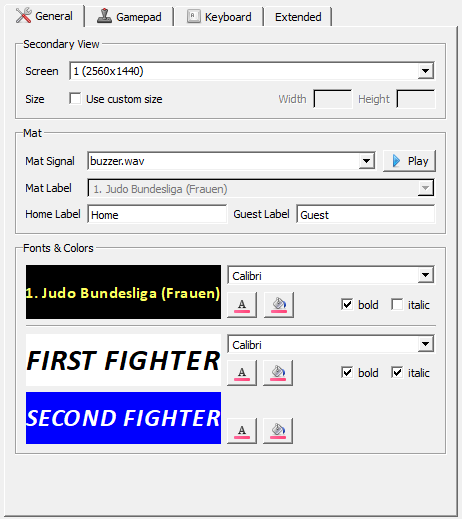
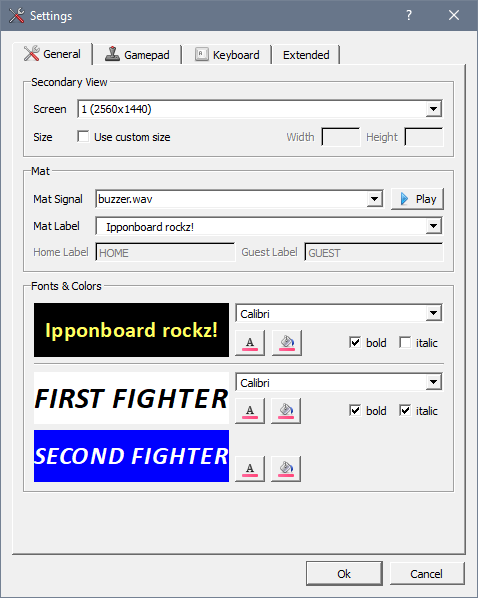
replaced German screenshots with English ones
(cherry picked from commit 36331bfd3e8bdb2097cfe4ee621891133c9916d4)

Changed region(s): [[0.0, 0.0, 1.0, 1.0]]

diff --git a/doc/USER_MANUAL-EN.md b/doc/USER_MANUAL-EN.md
@@ -27,7 +27,6 @@
 - **[Troubleshooting](#troubleshooting)**
   - [Preparing for dual screen operation](#preparing-for-dual-screen-operation)
 
-
 # General
 
 ## License terms
@@ -138,7 +137,8 @@ The primary display serves as the central control unit for the Ipponboard operat
 - Set/reset scores
 - change fight information (mat number, current weight class)
 
-![Primary display](images/primary_view-DE.jpg)
+![Primary display](images/main-screen-EN.png)
+Whizzard of Oz.
 
 ### Secondary/external display
 
@@ -167,11 +167,12 @@ The program settings can be found in the application menu under *Settings*. They
 - Change colors for fighters/ratings
 - Select sound file for timekeeper table signal
 
-![General setting dialog](images/Einstellungen_Allgemein.png)
+![General setting dialog](images/settings_general-EN.png)
 
-Besides the general options, the gamepad buttons can also be reassigned in the settings menu.
+Besides the general options, the gamepad buttons and keyboard accessors can also be reassigned in the settings menu.
 
-![Input settings dialog](images/Einstellungen_Eingabe.png)
+![Gamepad button assignments](images/settings_gamepad-EN.png)
+![Input settings dialog](images/settings_keyboard-EN.png)
 
 # Controlling Iponboard
 
@@ -203,23 +204,13 @@ Even if the control by mouse is very intuitive and catchy, my experiences have s
 
 ## Working with mouse, keyboard or gamepad
 
-### Mouse usage
+- 🐭**Mouse**: The program can be controlled completely with the mouse. All that is required is to click on the respective fields in the primary (embedded) display or on the corresponding buttons in the user interface.
 
-The program can be controlled completely with the mouse. All that is required is to click on the respective fields in the primary (embedded) display or on the corresponding buttons in the user interface.
+- ⌨**Keyboard**: Almost everything in Ipponboard can be accessed by keyboard. The assignment of the individual buttons can be viewed in the [*Settings &rarr; Preferences*](#program-settings) menu.
 
-### Keyboard configuration
-
-Almost everything in Ipponboard can be accessed by keyboard. The assignment of the individual buttons can be viewed in the *Settings &rarr; Preferences* menu.
-
-![Gamepad button assignments](images/settings_keyboard-EN.png)
-
-### Gamepad button layout
-
-![Gamepad button layout](images/gamepad_layout-EN.jpg)
-
-The assignment of the individual buttons can be configured in the *Settings &rarr; Preferences* menu.
-
-![Gamepad button assignments](images/settings_gamepad-EN.png)
+- 🎮 **Gamepad**: Ipponboard was specially designed with gamepad use in mind. The button layout can be configured in the [*Settings &rarr; Preferences*](#program-settings) menu. The default configuration is as follows:
+  
+  ![Gamepad button layout](images/gamepad_layout-EN.jpg)
 
 ## Awarding and undoing points
 
